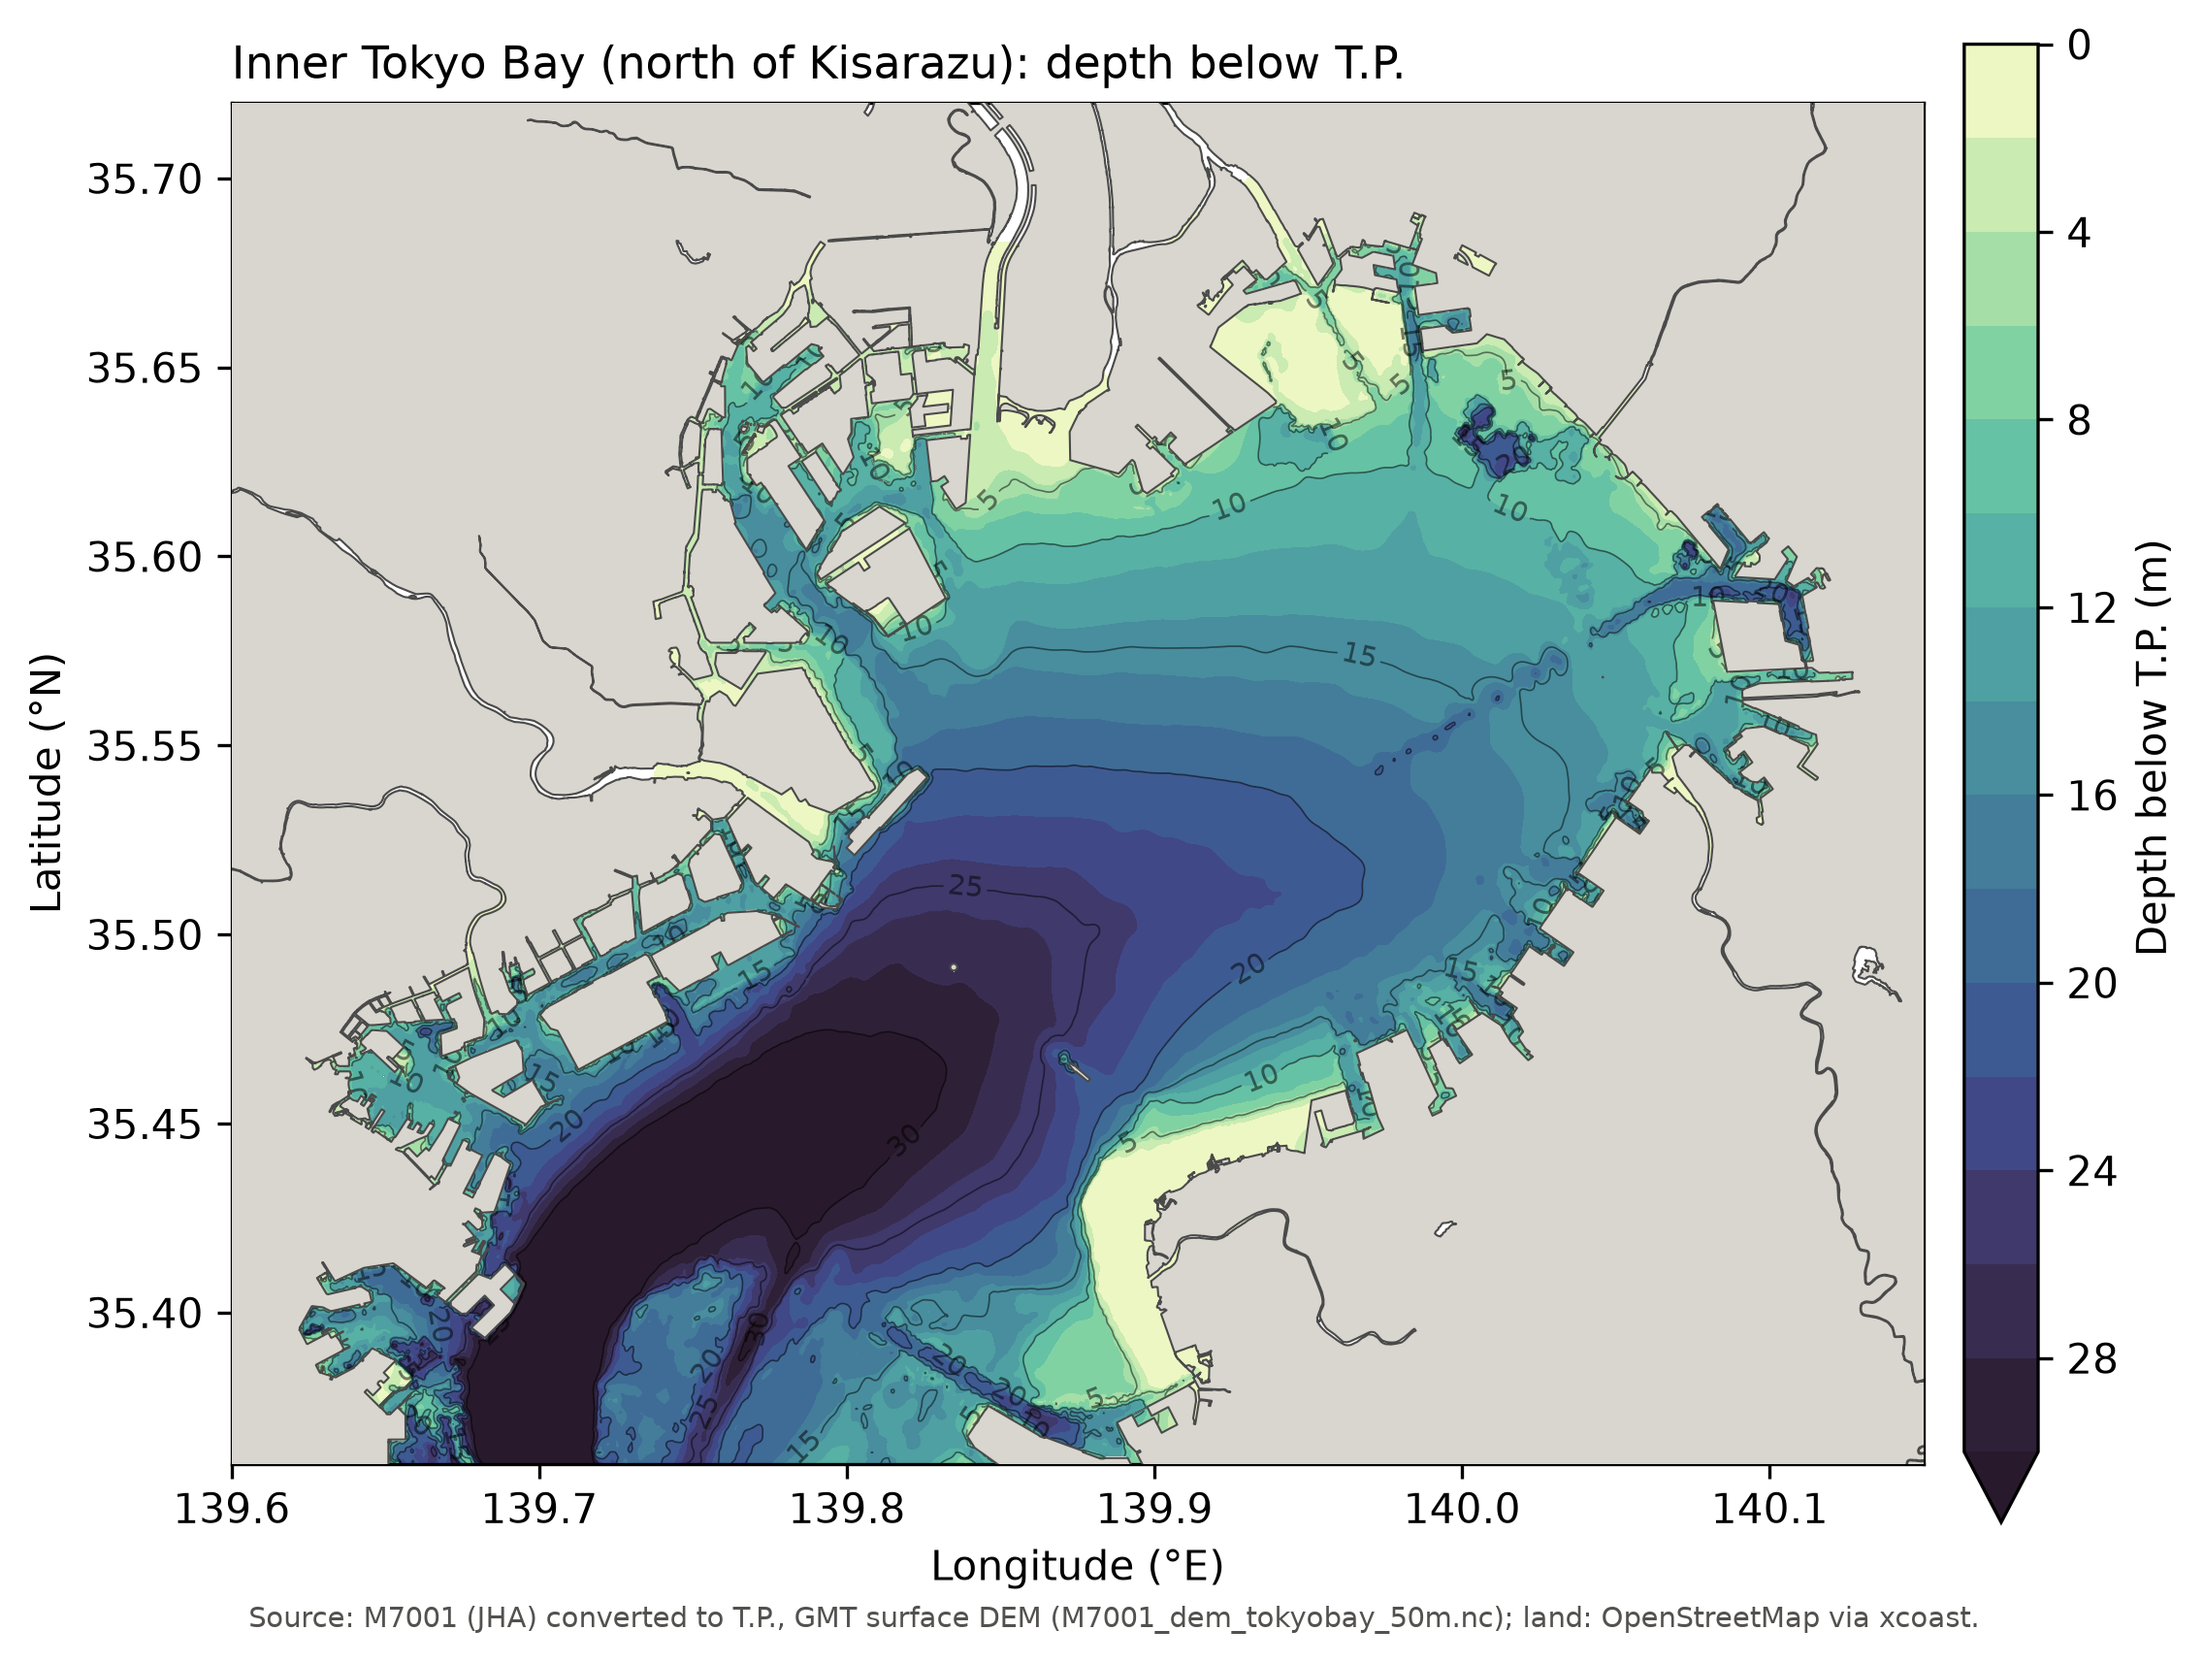
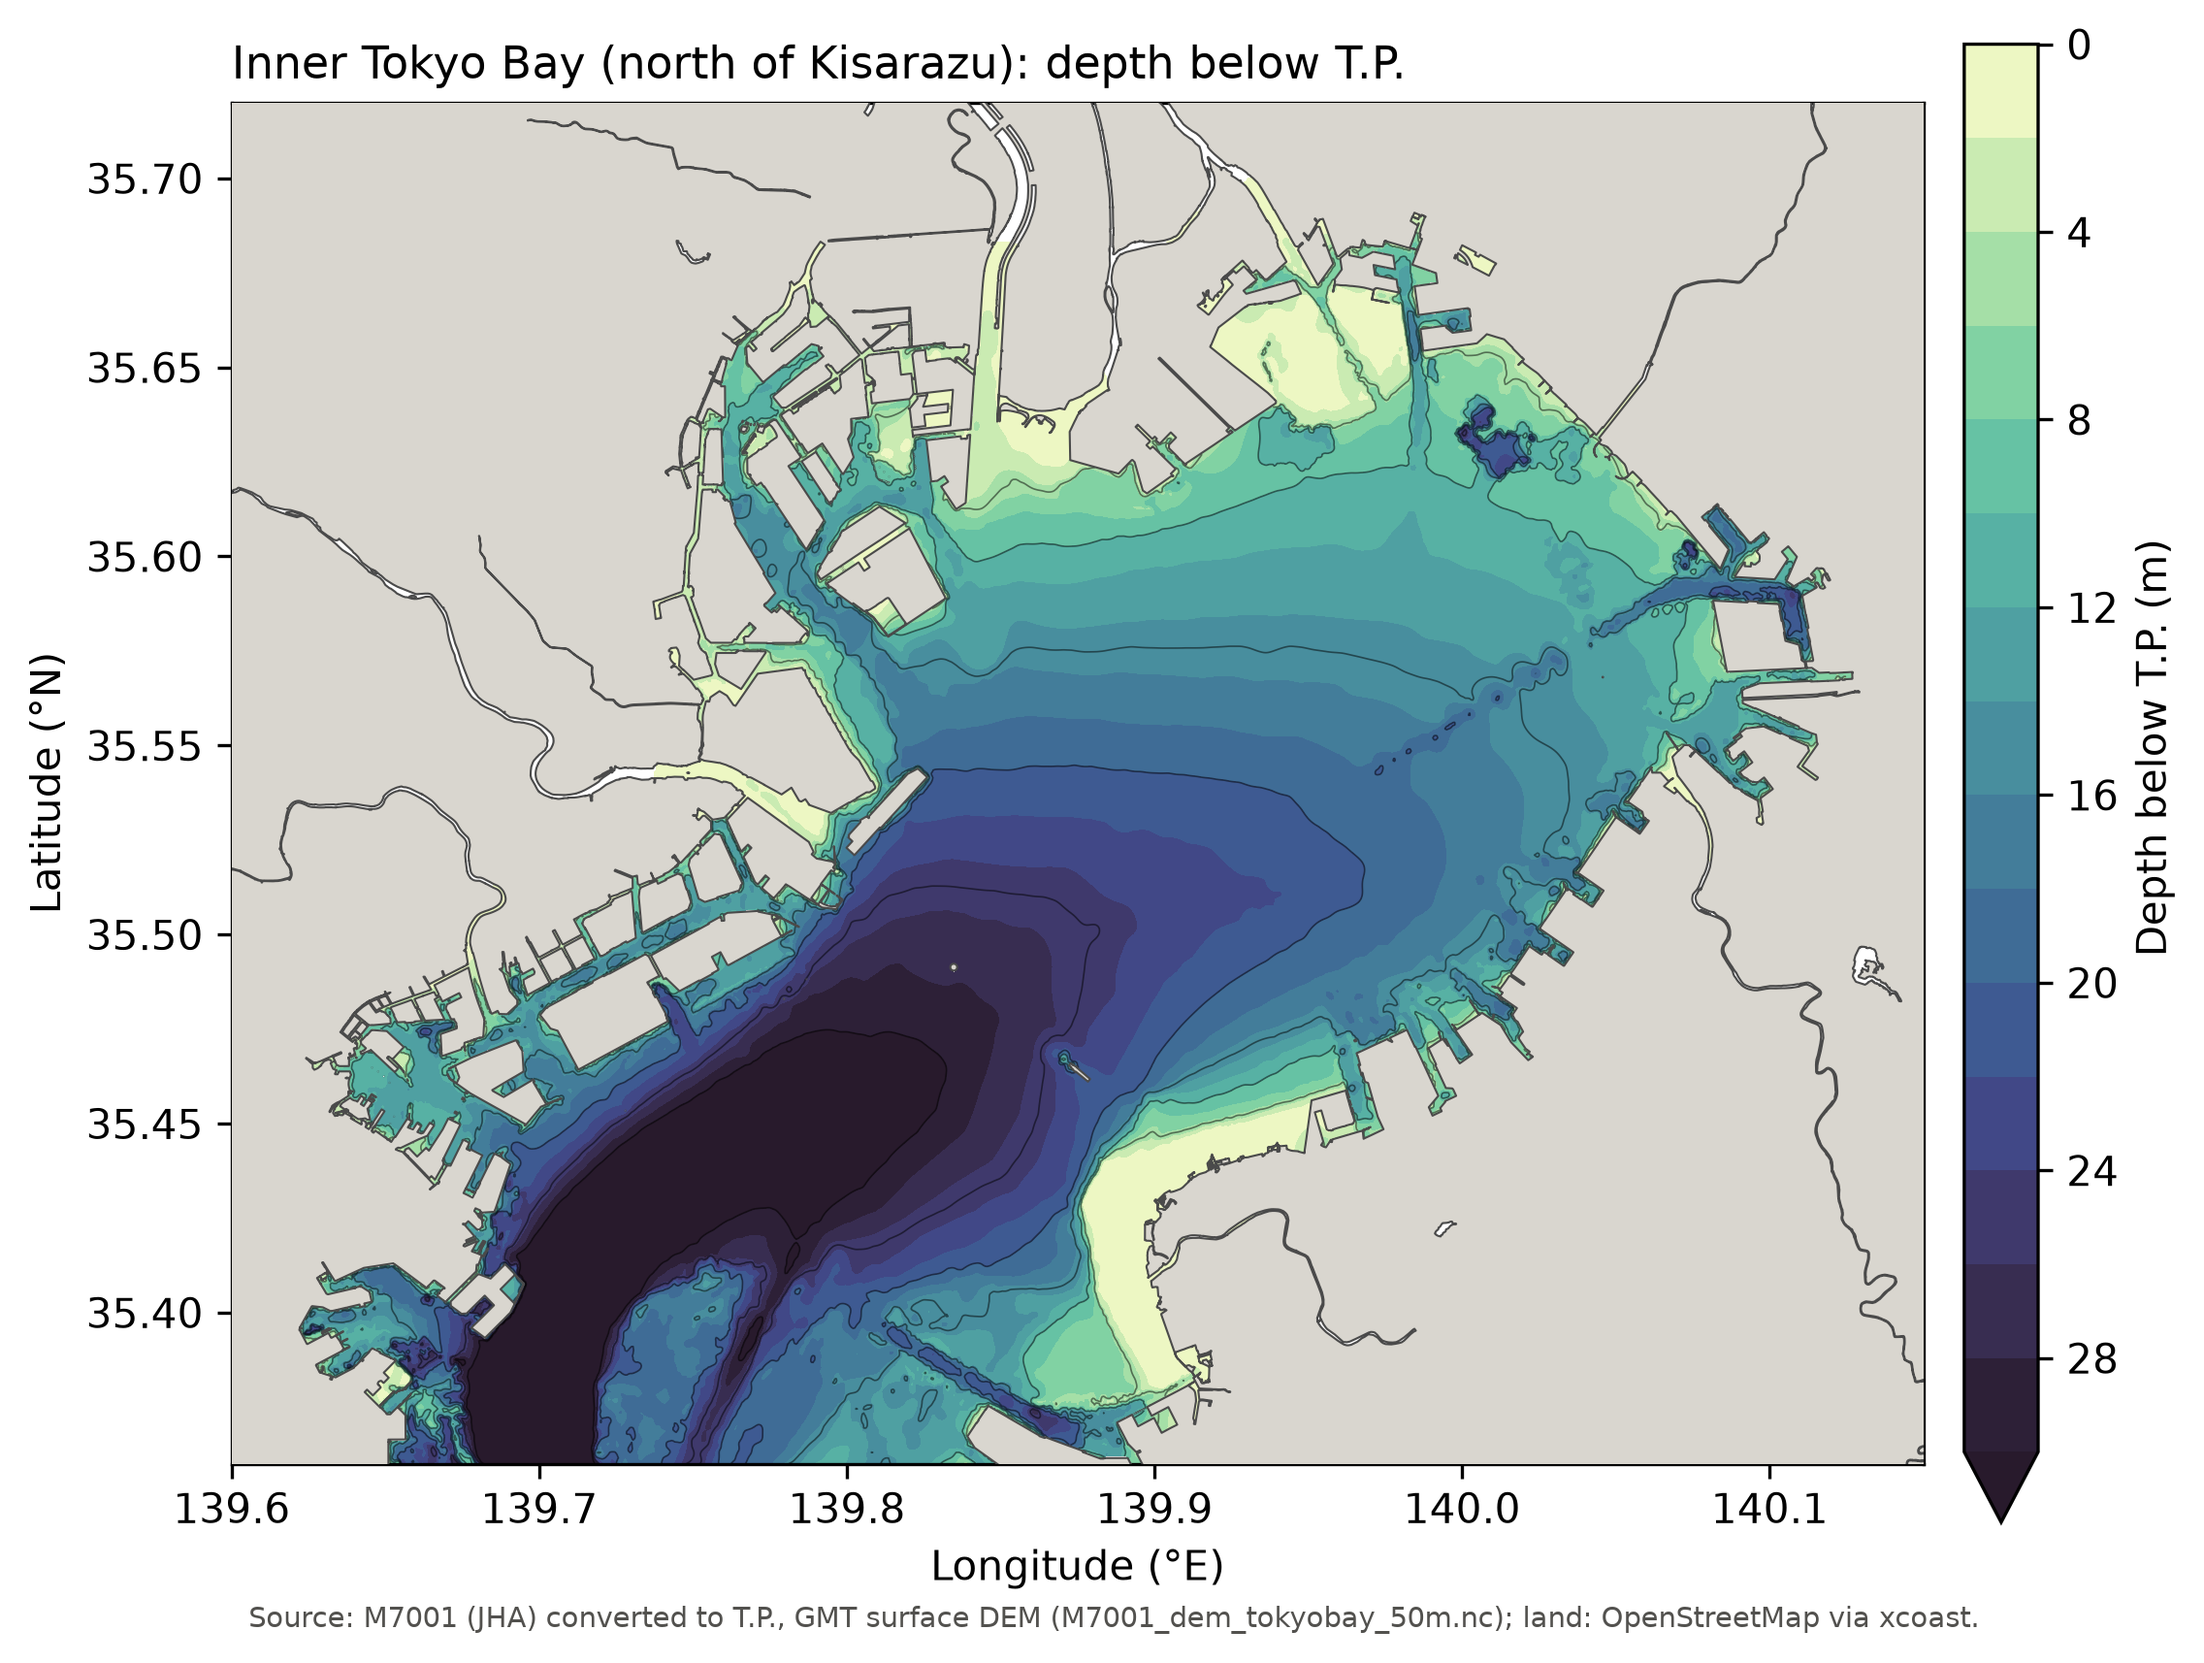
Inner bay depth map: drop contour depth labels (optional --contour-labels)
Claude-Session: https://claude.ai/code/session_01MhU6iDzaQKBG9cKa3nrSvL

diff --git a/scripts/plot_depth_map.py b/scripts/plot_depth_map.py
@@ -49,6 +49,8 @@ def main() -> int:
     ap.add_argument("--vmax", type=float, default=30.0, help="colour-bar maximum depth (m)")
     ap.add_argument("--step", type=float, default=2.0, help="colour step (m)")
     ap.add_argument("--contour", type=float, default=5.0, help="contour interval (m), 0 = none")
+    # jsasaki 2026-10-23: owner asked for contours without depth labels by default
+    ap.add_argument("--contour-labels", action="store_true", help="label the contours")
     ap.add_argument("--cmap", default="deep", help="cmocean colormap name")
     ap.add_argument("--title", default="Inner Tokyo Bay (north of Kisarazu): depth below T.P.")
     ap.add_argument("--dpi", type=int, default=300)
@@ -68,7 +70,9 @@ def main() -> int:
         cl = np.arange(args.contour, args.vmax + 0.1, args.contour)
         cs = ax.contour(da.lon, da.lat, depth, levels=cl, colors="k", linewidths=0.4,
                         alpha=0.5)
-        ax.clabel(cs, fmt="%g", fontsize=7, inline_spacing=2)
+        # jsasaki 2026-10-23: labels only on request
+        if args.contour_labels:
+            ax.clabel(cs, fmt="%g", fontsize=7, inline_spacing=2)
     land_gdf(args.region).add_to_plain_mpl(ax, facecolor="#d9d6cf", edgecolor="#4a4a4a",
                                            linewidth=0.5, zorder=5)
     ax.set_xlim(w, e)
